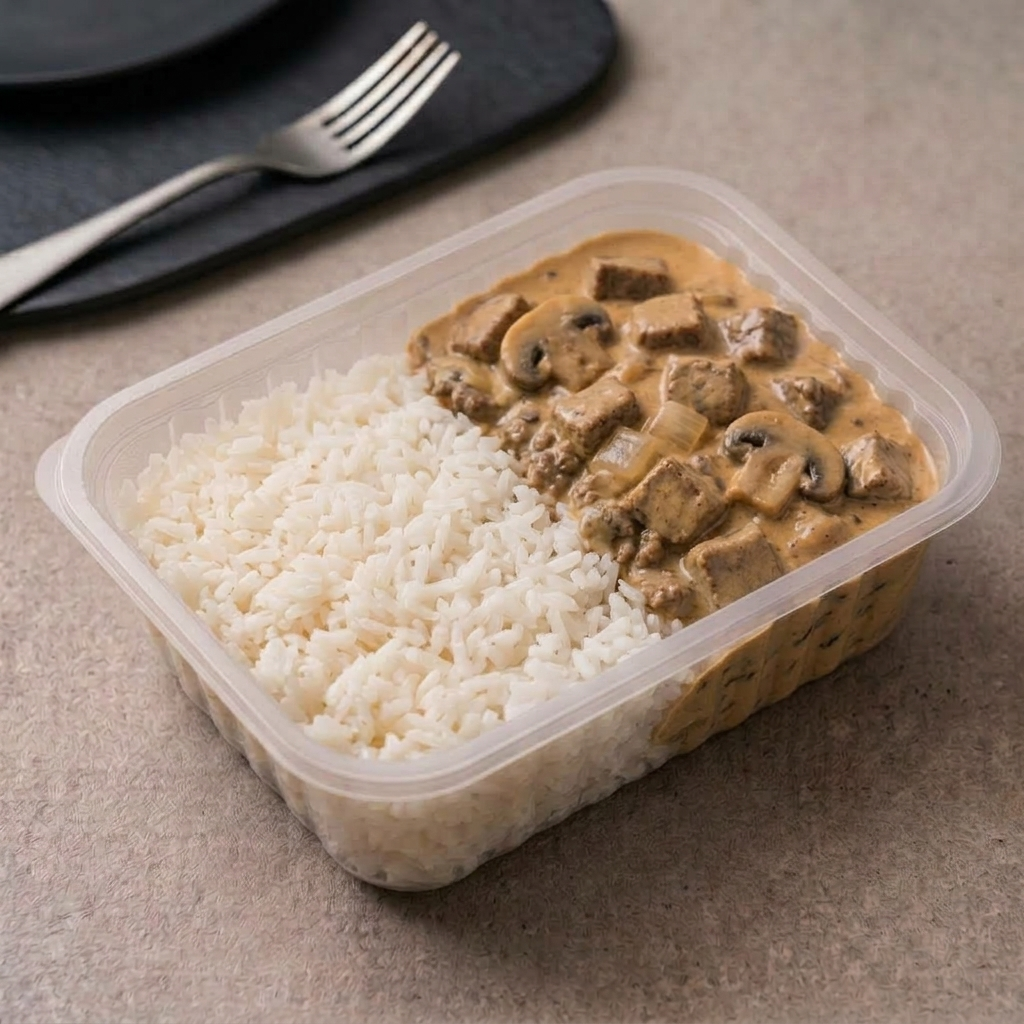
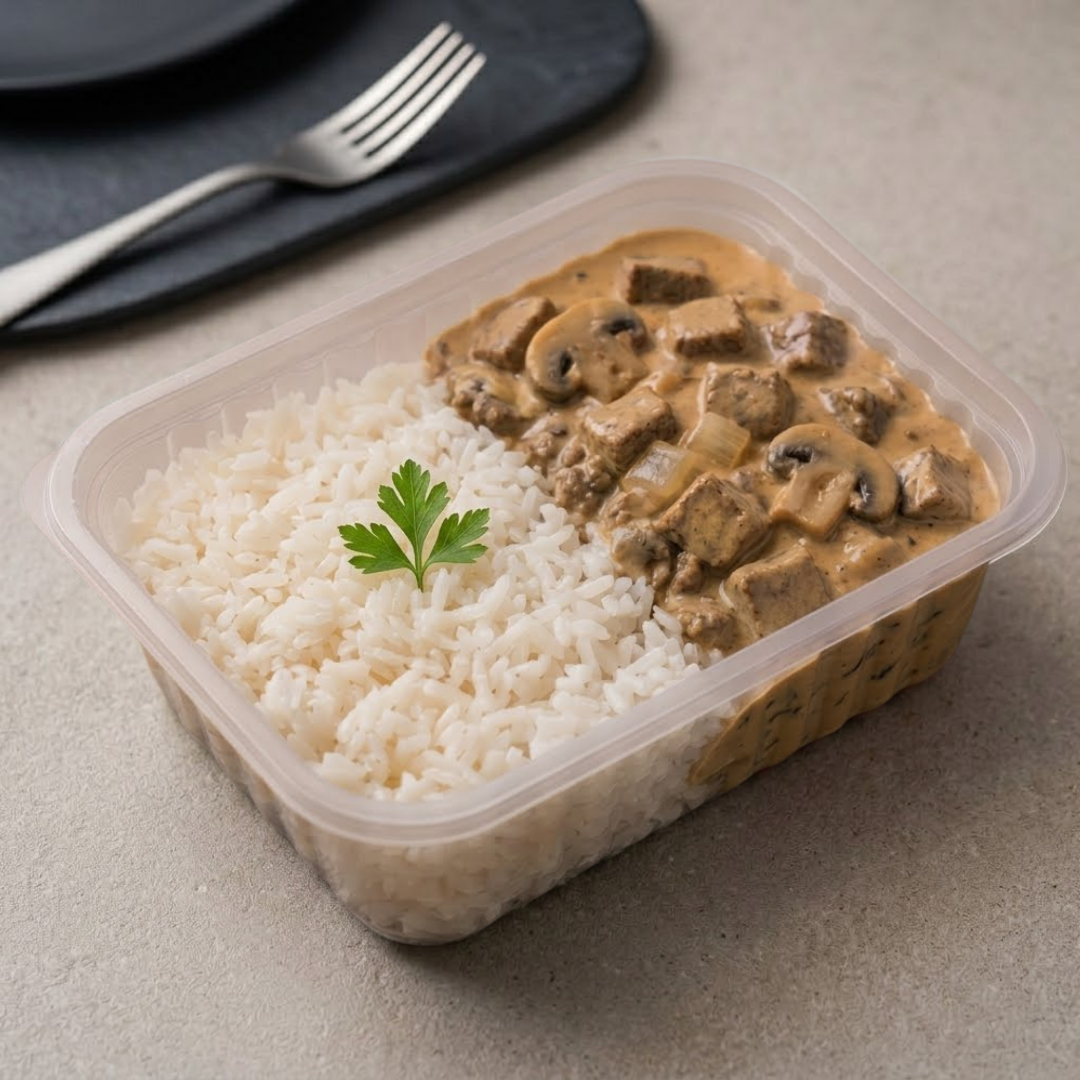
fix(nutrir): atualiza fotos do Strogonoff e sobe versao de cache das imagens

diff --git a/nutrir/lib/marmita-images.ts b/nutrir/lib/marmita-images.ts
@@ -6,7 +6,7 @@ const COM_FUNDO = "/marmitas/V3";
 const SEM_FUNDO = "/marmitas/Sem fundo";
 
 /** Incremente ao trocar as fotos em public/marmitas para forçar atualização no navegador. */
-export const MARMITA_IMAGES_VERSION = "7";
+export const MARMITA_IMAGES_VERSION = "8";
 
 function imagePath(name: string): string {
   return `${encodeURI(`${COM_FUNDO}/${name}.png`)}?v=${MARMITA_IMAGES_VERSION}`;
